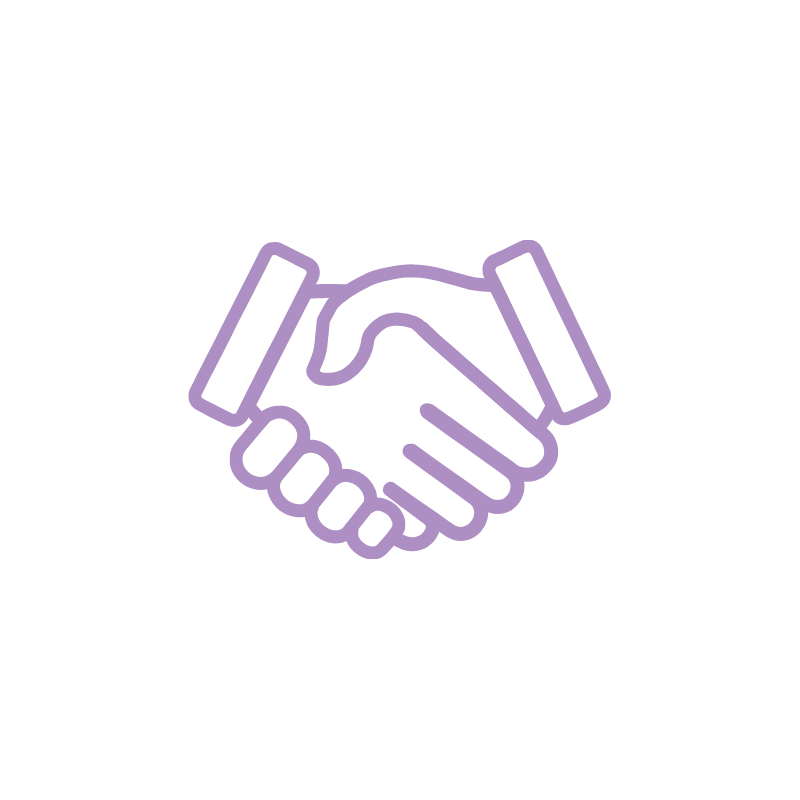
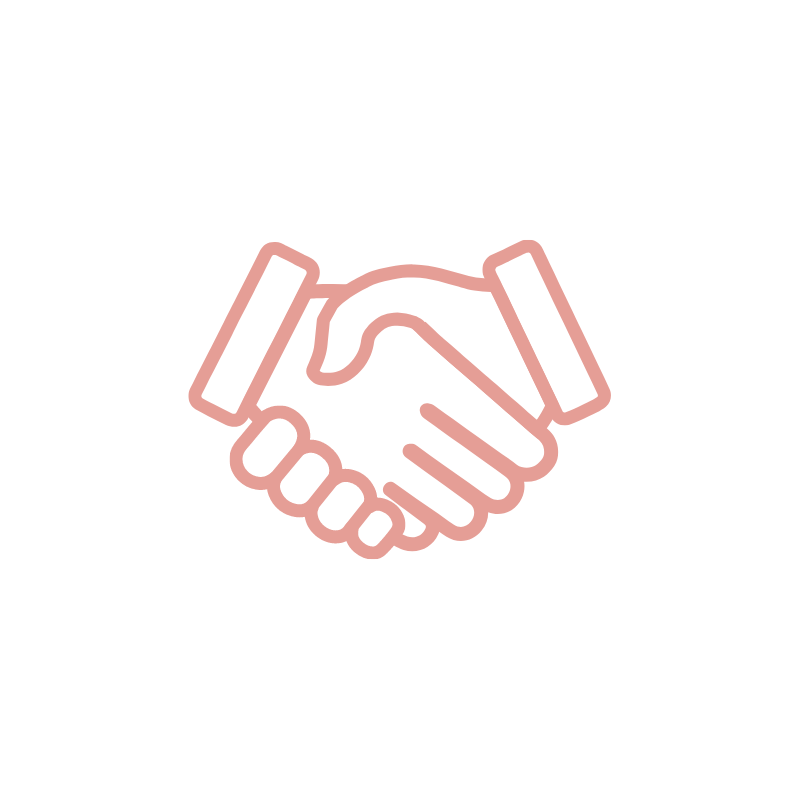
kkk

Changed region(s): [[0.2188, 0.2812, 0.7812, 0.7188]]

diff --git a/index.html b/index.html
@@ -166,7 +166,7 @@
                             data-y="['top','top','middle','middle']" data-voffset="['250','173','-135','-112']"
                             data-fontsize="['20','20','20','20']" data-lineheight="['35','35','25','20']"
                             data-fontweight="['700','700','700','700']"
-                            data-color="['rgb(76, 168, 175)','rgb(76, 168, 175)','rgb(76, 168, 175)','rgb(76, 168, 175)']"
+                            data-color="['rgb(166, 85, 91)','rgb(166, 85, 91)','rgb(166, 85, 91)','rgb(166, 85, 91)']"
                             data-width="none" data-height="none" data-whitespace="nowrap" data-type="text"
                             data-responsive_offset="on"
                             data-frames='[{"delay":340,"speed":800,"frame":"0","from":"x:[175%];y:0px;z:0;rX:0;rY:0;rZ:0;sX:1;sY:1;skX:0;skY:0;opacity:1;","mask":"x:[-100%];y:0;s:inherit;e:inherit;","to":"o:1;","ease":"Power0.easeIn"},{"delay":"wait","speed":300,"frame":"999","to":"opacity:0;","ease":"Power3.easeInOut"}]'

diff --git a/assets/css/shortcodes.css b/assets/css/shortcodes.css
@@ -798,7 +798,7 @@
 
 .ttm-btn.ttm-btn-size-sm.ttm-icon-btn-right {
     padding-right: 39px;
-    color:#4ca8af;
+    color:#a6555b;
 }
 
 .ttm-btn.ttm-btn-size-sm.ttm-icon-btn-left {
@@ -1936,7 +1936,7 @@ body {
     font-size: 12px;
     padding-top: 9px;
     left: 10px;
-    background-color: #ad8fc3 !important;
+    background-color: #e59e96 !important;
     border-radius: 5px;
 }
 
@@ -4910,14 +4910,14 @@ option {
 }
 
 .tp-caption.button.black-button {
-    background: #ad8fc3;
+    background: rgb(166, 85, 91);
     border: 0px;
 }
 .tp-caption.button.black-button:hover{
-    background: #4ca8af;
+    background: rgb(166, 85, 91);
 }
 .quem{
-    color:#4ca8af !important;
+    color:rgb(166, 85, 91) !important;
 }
 .nomecopy{
     color:#888 !important;
@@ -5044,11 +5044,11 @@ Subscribe Area CSS
     color: #ffffff;
   }
   .btn-primary {
-    background: #ad8fc3;
+    background: #a6555b;
     color: #ffffff;
 }
 .btn-primary:hover{
-    background: #4ba7ae;
+    background: #a6555b;
 }
 .btn {
     border: none;

diff --git a/assets/css/main.css b/assets/css/main.css
@@ -3462,7 +3462,7 @@ border-radius: 2em;
     color: #fff;
     font-weight: 600;
     font-size: 14px;
-    background:#c44e56;
+    background:#e59e96;
     box-shadow: 0 10px 20px 0px rgba(137, 173, 255, 0.2);
     position: relative;
     border: 0px;
@@ -3676,7 +3676,7 @@ border-radius: 2em;
     position: absolute;
     left: 0;
     top: 0;
-    color: #a6555b;
+    color: #e59e96;
     font-size: 35px;
   }
   
@@ -3774,7 +3774,7 @@ border-radius: 2em;
     margin-top: 35px;
   }
   .fa-check-circle{
-      color:#7b499f;
+      color:#e59e96;
   }
   .ulespecialidadetabs{
     margin-top: 10px !important;
@@ -3934,7 +3934,7 @@ border-radius: 2em;
       z-index: -1;
       top: -16px;
       right: -16px;
-      background: #a6555b;
+      background: #e59e96;
       height: 32px;
       width: 32px;
       border-radius: 32px;
@@ -4279,4 +4279,7 @@ border-radius: 2em;
 }
 .btn-contato:hover{
     background: #a6555b !important;
+}
+.post-title h5 {
+    line-height: 29px !important;
 }
